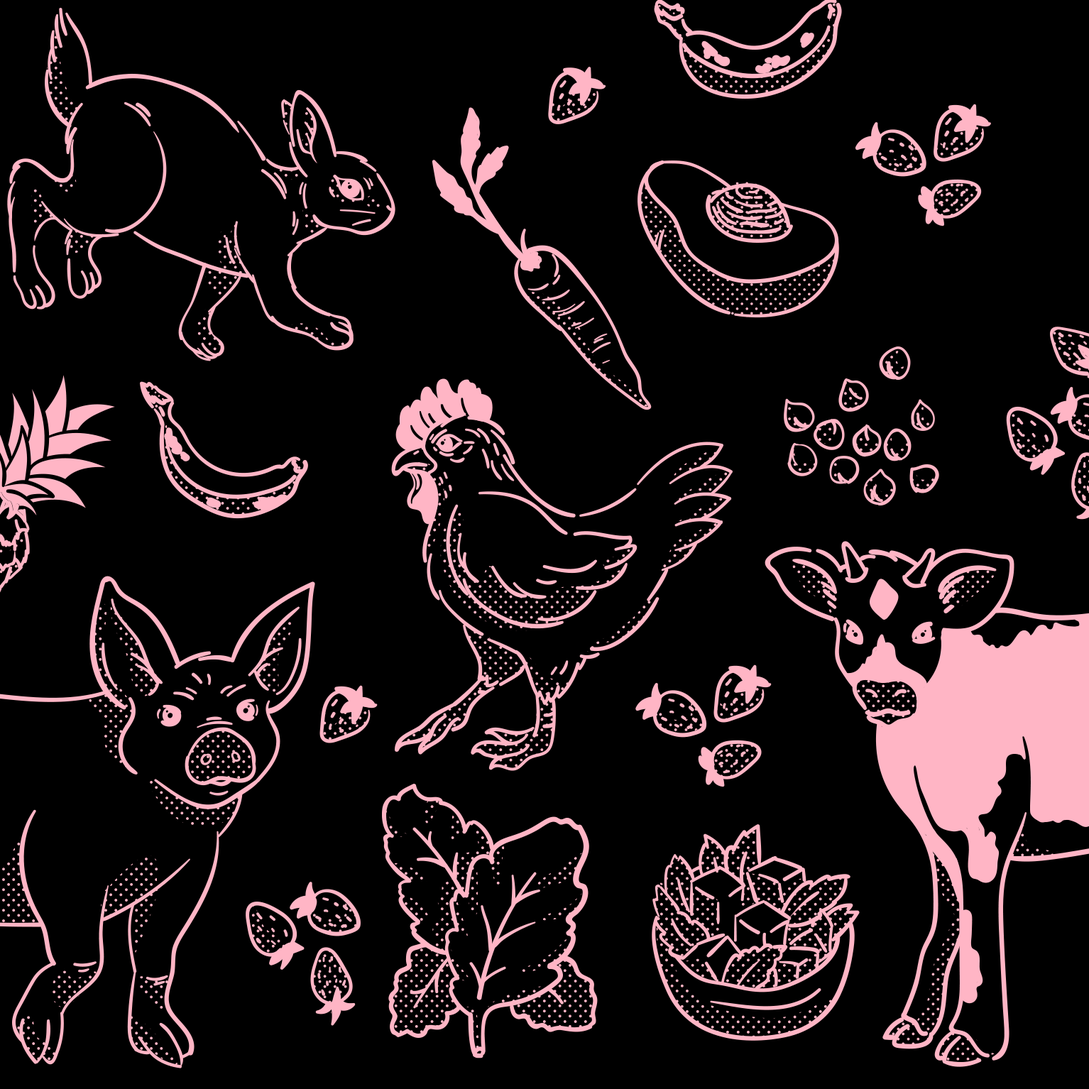
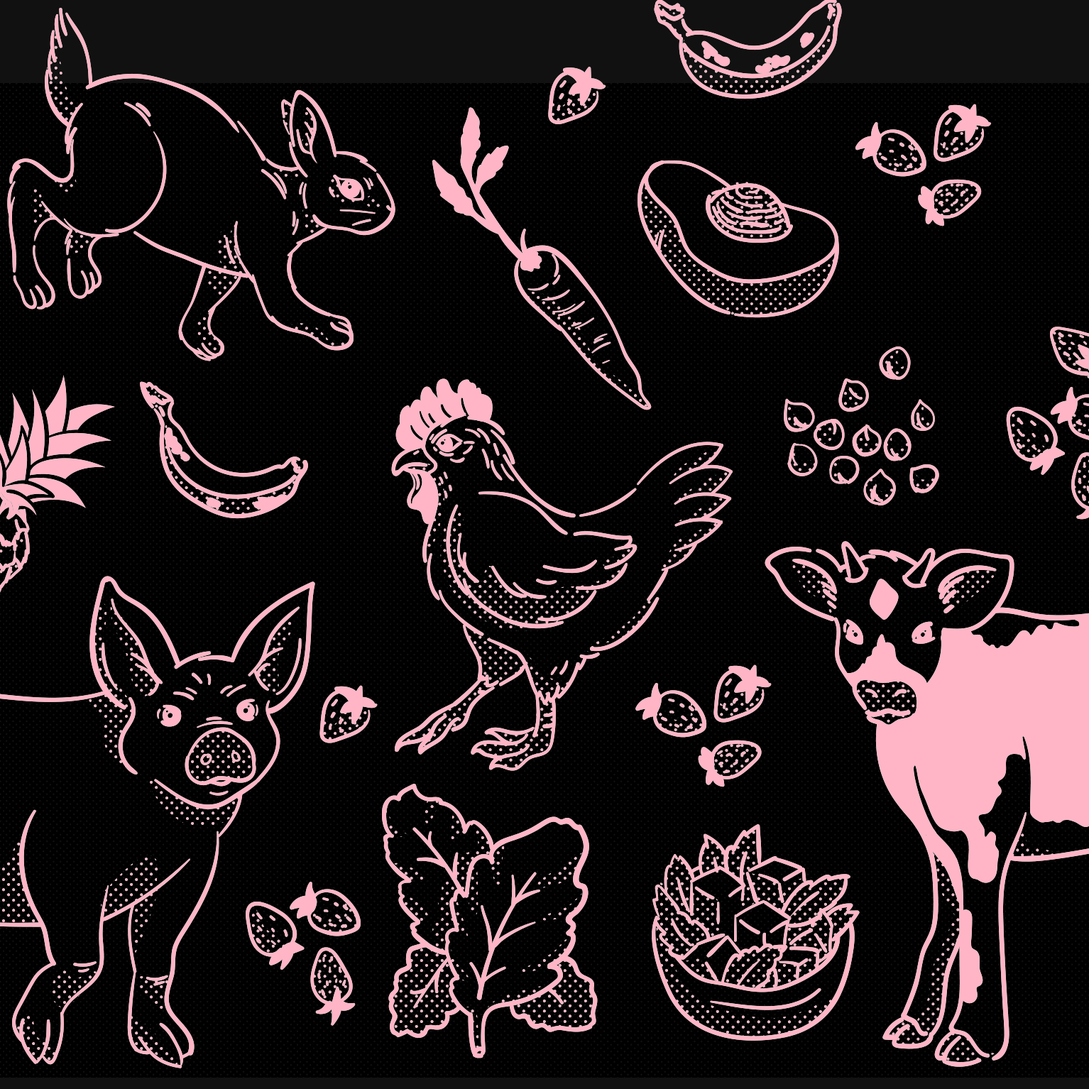
Starting lessons

diff --git a/assets/css/styles.css b/assets/css/styles.css
@@ -1,1 +1,1 @@
-@font-face{font-family:'League Spartan Variable';src:url("../fonts/league-spartan/LeagueSpartan-VF.woff2") format("woff2-variations");font-weight:200 900}@font-face{font-family:'Fanwood';src:url("../fonts/fanwood_regular_macroman/Fanwood-webfont.eot");src:url("../fonts/fanwood_regular_macroman/Fanwood-webfont.eot?#iefix") format("embedded-opentype"),url("../fonts/fanwood_regular_macroman/Fanwood-webfont.woff") format("woff"),url("../fonts/fanwood_regular_macroman/Fanwood-webfont.ttf") format("truetype"),url("../fonts/fanwood_regular_macroman/Fanwood-webfont.svg#fanwoodregular") format("svg");font-weight:normal;font-style:normal}@font-face{font-family:'fanwooditalic';src:url("../fonts/fanwood_italic_macroman/Fanwood-Italic-webfont.eot");src:url("../fonts/fanwood_italic_macroman/Fanwood-Italic-webfont.eot?#iefix") format("embedded-opentype"),url("../fonts/fanwood_italic_macroman/Fanwood-Italic-webfont.woff") format("woff"),url("../fonts/fanwood_italic_macroman/Fanwood-Italic-webfont.ttf") format("truetype"),url("../fonts/fanwood_italic_macroman/Fanwood-Italic-webfont.svg#fanwooditalic") format("svg");font-weight:normal;font-style:italic}body{font-family:"Fanwood",serif;font-weight:400;color:#000;background-color:#FFFEFA;-webkit-font-smoothing:antialiased;-moz-osx-font-smoothing:grayscale}section{margin:0}a{text-decoration:none;color:#000}a:hover{color:#FFB6C6;text-decoration:none}.underline{text-decoration:underline}.no-underline{text-decoration:none}.no-underline:hover{text-decoration:none !important}.dark{color:#000}.bright{color:#FFFEFA}.dark-background{background-color:#000}.bright-background{background-color:#FFFEFA}.brand-background{background-color:#FFB6C6}.gray-1-background{background-color:#f7f7f7}.gray-2-background{background-color:#c6c6c6}.gray-3-background{background-color:#949494}.gray-4-background{background-color:#949494}.gray-5-background{background-color:#313131}figure{margin:0}figure img{width:100%}ul{padding:0;margin:0}ul li{list-style-type:none}.inline{display:inline-block}.inline li{display:inline-block}.break{display:block;content:''}.box-row{display:block;width:100%;height:5.1rem}h1,h2,h3,h4,h5,h6{color:#000;font-family:"League Spartan Variable",sans-serif;font-weight:700}h1,h2,h3,h4,h5,h6{margin:0}h1{font-size:2.488125rem;line-height:2.9375rem}h2{font-size:2.07375rem;line-height:2.4375rem}h3{font-size:1.728125rem;line-height:2.0625rem}h4{font-size:1.44rem;line-height:1.6875rem}h5{font-size:1.2rem;line-height:1.69155rem}p{font-size:1.266rem;line-height:2.0256rem;margin:0;font-weight:400}.p-big{font-size:1.424rem;line-height:2.2784rem;font-weight:400}.p-small{font-size:1.125rem;line-height:1.8rem}.category{text-transform:uppercase;font-size:1rem;letter-spacing:0.2rem}.author-date{font-size:1.125rem;color:#636363}blockquote{font-style:normal !important;color:#000 !important;margin:0}blockquote p{font-size:1.424rem;line-height:2.2784rem;color:#636363}.button{font-family:"League Spartan Variable",sans-serif;color:#000;font-weight:700;display:inline-block;padding:.5rem 2.5rem;margin:0;text-align:center}.button:hover{background-color:#B2FCE4;color:#000;-webkit-transition:0.7s ease;transition:0.7s ease}.button-wide,.button-wide-xs{display:block}.button-big,.link-big{font-size:1.424rem}.link-big span{font-size:2rem}.link-mid{font-size:1.266rem}.link-mid span{font-size:2rem}.button-small,.link-small{font-size:1.125rem}.button-ghost{border:2px solid #000}.button-ghost-bright{border:2px solid #FFFEFA}.button-box{padding:1rem;margin-bottom:2.4rem}.button-box a:last-child{margin-bottom:0}.button-bright:hover{color:#FFFEFA}.button-dark:hover{color:#000}.link{font-family:"League Spartan Variable",sans-serif;font-weight:700}.link:hover{text-decoration:underline;color:#FFB6C6;-webkit-transition:0.7s ease;transition:0.7s ease}.link span{vertical-align:middle;margin-left:.5rem}.link-heading:hover{color:#FFB6C6;transition:0.7s ease;-webkit-transition:0.7s ease}.underline-links li a:after{content:"";display:block;background-color:rgba(0,0,0,0);width:33%;height:.2rem;position:relative;top:.65rem;margin:0 auto}.underline-links li a:hover{color:#000}.underline-links li a:hover:after{background-color:#B2FCE4}.underline-links .active:after{background-color:#000}.underline-links .social a:hover:after{background-color:rgba(0,0,0,0)}.underline-links .social a:after{top:.45rem}.icon-gallery .row{margin:0 0 2.4rem 0}.icon-box{margin:0 0 2.4rem 0}.icon-box img{width:inherit;vertical-align:middle}.video-wrapper{position:relative;padding-bottom:56.25%;padding-top:0;height:0;margin:3rem 0 0 0}.video-wrapper iframe,.video-wrapper .video{position:absolute;top:0;left:0;width:100%;height:100%}.caption{display:block;margin:.75rem 0 2rem 0;color:#000;font-size:1rem;line-height:1.6rem}.caption:hover{text-decoration:underline;color:#000}.main-nav{background-color:#B2FCE4;padding:.5rem 0 .25rem 0}.main-nav a:hover{color:#000}.main-nav li{margin-right:1rem;font-size:1.5rem}.main-nav li:last-child{margin-right:0}.uk-alert{color:inherit;padding:2.4rem 1.4rem;margin:0 0 1.4rem 0;background-color:#f7f7f7}.uk-alert-close{top:1.4rem;right:1.4rem;opacity:1}.uk-alert-close:hover{opacity:1}.alert-content{margin:0 0 .5rem 0}.alert-content p:last-child{margin-bottom:0}.alert-content-no-heading{margin:1.4rem 0 .5rem 0}.uk-modal-full{z-index:9999999999}.uk-modal-full .uk-modal-dialog{height:100%;color:#FFFEFA;background-color:#000}.uk-modal-full .uk-modal-body{padding:.75rem 0 2.4rem 0}.uk-modal-full .wrapper{height:100%}.uk-modal-full .modal-nav-row{height:100%}.uk-modal-full ul{padding-left:0}.uk-modal-full .social{margin-top:1rem;font-size:1.5rem}.uk-modal-full .social li{margin-right:1rem}.uk-modal-full .social li:last-child{margin-right:0}.uk-modal-full li{font-family:"League Spartan Variable",sans-serif;font-weight:700;font-size:1.44rem;margin-bottom:1rem}.uk-modal-full .logo{font-size:8rem;margin-bottom:-1rem}.uk-modal-full a{color:#FFFEFA}.uk-modal-full a:hover{color:#B2FCE4}.uk-modal-full .uk-modal-close-default{position:inherit;padding:0}.uk-modal-full .uk-modal-close-default span{font-size:1.5rem}.uk-modal-full .uk-modal-close-default svg{display:none}.modal-open{display:block;opacity:1}.why-big-text{margin:0 0 2.5rem 0;padding:0 0 2rem 0;border-bottom:1px dotted #c6c6c6}.index-header{margin:0 auto 3.5rem auto}.index-header .hero-image{background-image:url(../images/hero-image-mobile-1-1.png);background-repeat:no-repeat;background-size:cover;height:24rem;background-color:#000;margin-bottom:1rem}.index-header h1{margin-bottom:1rem}.index-header .p-big{font-size:1.424rem;line-height:2.2784rem}.index-header .text-box{margin:0 0 2rem 0}.content .row{padding:0 0 2rem 0;margin:0 0 2.5rem 0;border-bottom:1px dotted #c6c6c6}.content figure{margin:0 0 1.5rem 0}.content h3{margin:0 0 1rem 0}.content h4,.content h5{margin:0 0 1rem 0}.content .text-box{margin:0 0 1.5rem 0}.content .preview-lessons{padding:0 0 2.5rem 0}.content .preview-events-and-articles{border-bottom:0;margin-bottom:0}.content .preview-event{padding:0 0 2rem 0;border-bottom:1px dotted #c6c6c6}.content .preview-event-article{margin:0 0 2rem 0}.content .preview-event-article h4{font-size:1.728125rem;line-height:2.0625rem}.content .preview-event-article figure{margin:0 0 1rem 0}.content .preview-event-article .text-box{margin:0 0 .75rem 0}.content-post{padding:0;margin:2.5rem 0 4.5rem 0}.content-post .row{padding:0 !important;margin:0 !important;border-bottom:none}.content-post .article-container{margin:2rem 0 1rem 0 !important}.content-post .article-container .button{margin:.5rem 0 0 0}.content-post .article-container p{margin:0 0 2rem 0}.content-post .article-container img{margin:2rem 0 0 0}.prev-next .long-word{display:none}.prev-next .col-xs-6{padding:0}.prev-next a .margin-right{margin-left:0;margin-right:.5rem}.prev-next a:hover{text-decoration:none}footer{color:#FFFEFA;background-color:#000;padding:2rem 0}footer .logo{font-size:7.5rem;color:#FFFEFA}footer .logo:hover{color:#B2FCE4;transition:0.7s ease;-webkit-transition:0.7s ease}footer nav{margin:0 0 2rem 0}footer nav li{margin:0 0 .5rem 0}footer nav a{font-family:"League Spartan Variable",sans-serif;font-weight:700;font-size:1.266rem;color:#FFFEFA}footer nav a:hover{color:#B2FCE4;text-decoration:underline;transition:0.7s ease;-webkit-transition:0.7s ease}footer p{margin:0 0 1rem 0}footer .link{color:#FFFEFA}footer .link:hover{color:#B2FCE4;transition:0.7s ease;-webkit-transition:0.7s ease}footer .social li{margin-right:1rem}footer .social li:last-child{margin-right:0}footer .social li a{font-size:1.25rem}footer .social li a:hover{text-decoration:none}#Smallchat .Laucher-icon{box-shadow:0 0 0 0 rgba(0,0,0,0) !important}
+@font-face{font-family:'League Spartan Variable';src:url("../fonts/league-spartan/LeagueSpartan-VF.woff2") format("woff2-variations");font-weight:200 900}@font-face{font-family:'Fanwood';src:url("../fonts/fanwood_regular_macroman/Fanwood-webfont.eot");src:url("../fonts/fanwood_regular_macroman/Fanwood-webfont.eot?#iefix") format("embedded-opentype"),url("../fonts/fanwood_regular_macroman/Fanwood-webfont.woff") format("woff"),url("../fonts/fanwood_regular_macroman/Fanwood-webfont.ttf") format("truetype"),url("../fonts/fanwood_regular_macroman/Fanwood-webfont.svg#fanwoodregular") format("svg");font-weight:normal;font-style:normal}@font-face{font-family:'fanwooditalic';src:url("../fonts/fanwood_italic_macroman/Fanwood-Italic-webfont.eot");src:url("../fonts/fanwood_italic_macroman/Fanwood-Italic-webfont.eot?#iefix") format("embedded-opentype"),url("../fonts/fanwood_italic_macroman/Fanwood-Italic-webfont.woff") format("woff"),url("../fonts/fanwood_italic_macroman/Fanwood-Italic-webfont.ttf") format("truetype"),url("../fonts/fanwood_italic_macroman/Fanwood-Italic-webfont.svg#fanwooditalic") format("svg");font-weight:normal;font-style:italic}body{font-family:"Fanwood",serif;font-weight:400;color:#111;background-color:#FFFEFA;-webkit-font-smoothing:antialiased;-moz-osx-font-smoothing:grayscale}section{margin:0}a{text-decoration:none;color:#111}a:hover{color:#FFB6C6;text-decoration:none}.underline{text-decoration:underline}.no-underline{text-decoration:none}.no-underline:hover{text-decoration:none !important}.dark{color:#111}.bright{color:#FFFEFA}.dark-background{background-color:#111}.bright-background{background-color:#FFFEFA}.brand-background{background-color:#FFB6C6}.gray-1-background{background-color:#f7f7f7}.gray-2-background{background-color:#c6c6c6}.gray-3-background{background-color:#949494}.gray-4-background{background-color:#949494}.gray-5-background{background-color:#313131}figure{margin:0}figure img{width:100%}ul{padding:0;margin:0}ul li{list-style-type:none}.inline{display:inline-block}.inline li{display:inline-block}.break{display:block;content:''}.box-row{display:block;width:100%;height:5.1rem}h1,h2,h3,h4,h5,h6{color:#111;font-family:"League Spartan Variable",sans-serif;font-weight:700}h1,h2,h3,h4,h5,h6{margin:0}h1{font-size:2.488125rem;line-height:2.9375rem}h2{font-size:2.07375rem;line-height:2.4375rem}h3{font-size:1.728125rem;line-height:2.0625rem}h4{font-size:1.44rem;line-height:1.6875rem}h5{font-size:1.2rem;line-height:1.69155rem}p{font-size:1.266rem;line-height:2.0256rem;margin:0;font-weight:400}.p-big{font-size:1.424rem;line-height:2.2784rem;font-weight:400}.p-small{font-size:1.125rem;line-height:1.8rem}.category{text-transform:uppercase;font-size:1rem;letter-spacing:0.2rem}.author-date{font-size:1.125rem;color:#636363}blockquote{font-style:normal !important;color:#111 !important;margin:0}blockquote p{font-size:1.424rem;line-height:2.2784rem;color:#636363}.button{font-family:"League Spartan Variable",sans-serif;color:#111;font-weight:700;display:inline-block;padding:.5rem 2.5rem;margin:0;text-align:center}.button:hover{background-color:#B2FCE4;color:#111;-webkit-transition:0.7s ease;transition:0.7s ease}.button-wide,.button-wide-xs{display:block}.button-big,.link-big{font-size:1.424rem}.link-big span{font-size:2rem}.link-mid{font-size:1.266rem}.link-mid span{font-size:2rem}.button-small,.link-small{font-size:1.125rem}.button-ghost{border:2px solid #111}.button-ghost-bright{border:2px solid #FFFEFA}.button-box{padding:1rem;margin-bottom:2.4rem}.button-box a:last-child{margin-bottom:0}.button-bright:hover{color:#FFFEFA}.button-dark:hover{color:#111}.link{font-family:"League Spartan Variable",sans-serif;font-weight:700}.link:hover{text-decoration:underline;color:#FFB6C6;-webkit-transition:0.7s ease;transition:0.7s ease}.link span{vertical-align:middle;margin-left:.5rem}.link-heading:hover{color:#FFB6C6;transition:0.7s ease;-webkit-transition:0.7s ease}.underline-links li a:after{content:"";display:block;background-color:rgba(0,0,0,0);width:33%;height:.2rem;position:relative;top:.65rem;margin:0 auto}.underline-links li a:hover{color:#111}.underline-links li a:hover:after{background-color:#B2FCE4}.underline-links .active:after{background-color:#111}.underline-links .social a:hover:after{background-color:rgba(0,0,0,0)}.underline-links .social a:after{top:.45rem}.icon-gallery .row{margin:0 0 2.4rem 0}.icon-box{margin:0 0 2.4rem 0}.icon-box img{width:inherit;vertical-align:middle}.video-wrapper{position:relative;padding-bottom:56.25%;padding-top:0;height:0;margin:3rem 0 0 0}.video-wrapper iframe,.video-wrapper .video{position:absolute;top:0;left:0;width:100%;height:100%}.caption{display:block;margin:.75rem 0 2rem 0;color:#111;font-size:1rem;line-height:1.6rem}.caption:hover{text-decoration:underline;color:#111}.main-nav{background-color:#B2FCE4;padding:.5rem 0 .25rem 0}.main-nav a:hover{color:#111}.main-nav li{margin-right:1rem;font-size:1.5rem}.main-nav li:last-child{margin-right:0}.uk-alert{color:inherit;padding:2.4rem 1.4rem;margin:0 0 1.4rem 0;background-color:#f7f7f7}.uk-alert-close{top:1.4rem;right:1.4rem;opacity:1}.uk-alert-close:hover{opacity:1}.alert-content{margin:0 0 .5rem 0}.alert-content p:last-child{margin-bottom:0}.alert-content-no-heading{margin:1.4rem 0 .5rem 0}.uk-modal-full{z-index:9999999999}.uk-modal-full .uk-modal-dialog{height:100%;color:#FFFEFA;background-color:#111}.uk-modal-full .uk-modal-body{padding:.75rem 0 2.4rem 0}.uk-modal-full .wrapper{height:100%}.uk-modal-full .modal-nav-row{height:100%}.uk-modal-full ul{padding-left:0}.uk-modal-full .social{margin-top:1rem;font-size:1.5rem}.uk-modal-full .social li{margin-right:1rem}.uk-modal-full .social li:last-child{margin-right:0}.uk-modal-full li{font-family:"League Spartan Variable",sans-serif;font-weight:700;font-size:1.44rem;margin-bottom:1rem}.uk-modal-full .logo{font-size:8rem;margin-bottom:-1rem}.uk-modal-full a{color:#FFFEFA}.uk-modal-full a:hover{color:#B2FCE4}.uk-modal-full .uk-modal-close-default{position:inherit;padding:0}.uk-modal-full .uk-modal-close-default span{font-size:1.5rem}.uk-modal-full .uk-modal-close-default svg{display:none}.modal-open{display:block;opacity:1}.why-big-text{margin:0 0 2.5rem 0;padding:0 0 2rem 0;border-bottom:1px dotted #c6c6c6}.index-header{margin:0 auto 3.5rem auto}.index-header .hero-image{background-image:url(../images/hero-image-mobile-1-1.png);background-repeat:no-repeat;background-size:cover;height:24rem;background-color:#111;margin-bottom:1rem}.index-header h1{margin-bottom:1rem}.index-header .p-big{font-size:1.424rem;line-height:2.2784rem}.index-header .text-box{margin:0 0 2rem 0}.content .row{padding:0 0 2rem 0;margin:0 0 2.5rem 0;border-bottom:1px dotted #c6c6c6}.content figure{margin:0 0 1.5rem 0}.content h3{margin:0 0 1rem 0}.content h4,.content h5{margin:0 0 1rem 0}.content .text-box{margin:0 0 1.5rem 0}.content .preview-lessons{padding:0 0 2.5rem 0}.content .preview-events-and-articles{border-bottom:0;margin-bottom:0}.content .preview-event{padding:0 0 2rem 0;border-bottom:1px dotted #c6c6c6}.content .preview-event-article{margin:0 0 2rem 0}.content .preview-event-article h4{font-size:1.728125rem;line-height:2.0625rem}.content .preview-event-article figure{margin:0 0 1rem 0}.content .preview-event-article .text-box{margin:0 0 .75rem 0}.content-post,.content-lessons{padding:0;margin:2.5rem 0 4.5rem 0}.content-post .row,.content-lessons .row{padding:0 !important;margin:0 !important;border-bottom:none}.content-post .article-container,.content-lessons .article-container{margin:2rem 0 1rem 0 !important}.content-post .article-container .button,.content-lessons .article-container .button{margin:.5rem 0 0 0}.content-post .article-container p,.content-lessons .article-container p{margin:0 0 2rem 0}.content-post .article-container img,.content-lessons .article-container img{margin:2rem 0 0 0}.prev-next .long-word{display:none}.prev-next .col-xs-6{padding:0}.prev-next a .margin-right{margin-left:0;margin-right:.5rem}.prev-next a:hover{text-decoration:none}footer{color:#FFFEFA;background-color:#111;padding:2rem 0}footer .logo{font-size:7.5rem;color:#FFFEFA}footer .logo:hover{color:#B2FCE4;transition:0.7s ease;-webkit-transition:0.7s ease}footer nav{margin:0 0 2rem 0}footer nav li{margin:0 0 .5rem 0}footer nav a{font-family:"League Spartan Variable",sans-serif;font-weight:700;font-size:1.266rem;color:#FFFEFA}footer nav a:hover{color:#B2FCE4;text-decoration:underline;transition:0.7s ease;-webkit-transition:0.7s ease}footer p{margin:0 0 1rem 0}footer .link{color:#FFFEFA}footer .link:hover{color:#B2FCE4;transition:0.7s ease;-webkit-transition:0.7s ease}footer .social li{margin-right:1rem}footer .social li:last-child{margin-right:0}footer .social li a{font-size:1.25rem}footer .social li a:hover{text-decoration:none}#Smallchat .Laucher-icon{box-shadow:0 0 0 0 rgba(0,0,0,0) !important}

diff --git a/assets/css/media-queries.css b/assets/css/media-queries.css
@@ -1,1 +1,1 @@
-@media only screen and (max-width: 48em){.visible-sm{display:block}.hidden-xs{display:none}}@media only screen and (min-width: 48em){.visible-sm{display:block}.hidden-sm{display:none}h1{font-size:2.98625rem;line-height:3.5625rem}h2{font-size:2.488125rem;line-height:2.9375rem}h3{font-size:2.07375rem;line-height:2.4375rem}h4{font-size:1.728125rem;line-height:2.0625rem}h5{font-size:1.44rem;line-height:1.6875rem}.button-big,.link-big{font-size:1.424rem}.button .visible-sm{display:inline-block}.prev-next .long-word{font-size:inherit;display:inline;margin:0}.main-nav{padding:1rem 0 .5rem 0}.main-nav li a{font-size:1.424rem}.uk-modal-full .uk-modal-body{padding:1rem 0 2.4rem 0}.button-wide-xs{display:inline-block}.index-header,.internal-header{padding:0 0 1rem 0;background-color:#000;background-image:url(../images/hero-image-home-tablet.png);background-position:right;background-repeat:no-repeat;background-size:50%}.index-header h1,.index-header p,.internal-header h1,.internal-header p{color:#FFFEFA}.index-header .content-box,.internal-header .content-box{margin:6rem 0 2.5rem 0;padding:0 2rem 0 0}.index-header .text-box,.internal-header .text-box{margin:0 0 2.5rem 0}.down{color:#FFFEFA;font-size:2rem;-webkit-transition:0.4s ease;transition:0.4s ease}.down:hover{color:#B2FCE4}.internal-header{background-color:rgba(0,0,0,0);background-image:none;color:#000}.internal-header .main-nav .logo{color:#000}.internal-header .main-nav .logo:hover{color:#FFB6C6}.internal-header .main-nav ul{background-color:rgba(0,0,0,0)}.internal-header .main-nav ul .active:after{background-color:#000}.internal-header .main-nav ul a,.internal-header .main-nav ul .active{color:#000}.internal-header .main-nav ul a:hover,.internal-header .main-nav ul .active:hover{color:#000}.internal-header .main-nav ul a:hover:after,.internal-header .main-nav ul .active:hover:after{background-color:#FFB6C6}.internal-header .main-nav .social a:hover{color:#FFB6C6}.internal-header .main-nav .social a:hover:after{background-color:rgba(0,0,0,0)}.content .row{padding:0 0 4rem 0;margin:0 0 4.5rem 0}.content .text-box{margin:0 0 2rem 0}.content .preview-events-and-articles{margin:0}.content .preview-event-article h4{font-size:1.728125rem;line-height:2.0625rem}.content .preview-event{padding:0;border-bottom:none}.content-post{margin:2rem 0 6.5rem 0}.shrink-nav .social a:hover:after{background-color:rgba(0,0,0,0) !important}.shrink-nav a:hover:after,.shrink-nav .active:hover:after{background-color:#000 !important}}@media only screen and (min-width: 62em){.visible-lg{display:block}.hidden-lg{display:none}.main-nav{background-color:rgba(0,0,0,0);box-shadow:none;-webkit-box-shadow:none;-moz-box-shadow:none}.main-nav .nav-right{padding:0 1rem}.main-nav .logo{font-size:8.5rem;color:#FFFEFA}.main-nav .logo:hover{color:#B2FCE4}.main-nav ul{background-color:#000}.main-nav ul li{margin-right:1.2rem}.main-nav ul li a{font-family:"League Spartan Variable",sans-serif;font-weight:700;font-size:1.266rem;color:#FFFEFA}.main-nav ul li a:hover{color:#B2FCE4}.main-nav .social{display:inline-block}.main-nav .social li{margin-right:1rem}.main-nav .social li:last-child{margin-right:0}.main-nav .social li a{font-size:1.266rem}.shrink-nav{background-color:#B2FCE4}.shrink-nav ul{margin-top:-.5rem;background-color:rgba(0,0,0,0)}.shrink-nav li{margin-right:1rem !important}.shrink-nav li .active:after{background-color:#000 !important}.shrink-nav li a,.shrink-nav li .active{color:#000 !important;font-size:1.125rem !important}.shrink-nav li a:hover,.shrink-nav li .active:hover{color:#000 !important}.shrink-nav li a:hover:after,.shrink-nav li .active:hover:after{background-color:#000}.shrink-nav .social{position:relative;top:.2rem}.shrink-nav .social li{margin-right:.75rem !important}.shrink-nav .social a:hover:after{background-color:rgba(0,0,0,0)}.shrink-nav .logo{font-size:1.5rem;color:#000}.shrink-nav .logo:hover{color:#000 !important}.shrink-nav .logo span:before{content:"\e94b"}.index-header{background-image:url(../images/hero-image-home-variant.png)}.internal-header{background-image:none}.why-big-text{margin:0 0 4rem 0 !important;padding:0 0 4rem 0 !important}.content-post{margin:-1.5rem 0 6.5rem 0}footer nav{margin:0 0 .5rem 0}footer nav li{margin-right:1rem;display:inline-block}footer nav li:last-child{margin-right:0}.text-box{margin:0 0 .5rem 0}.text-box p{display:inline-block}}@media only screen and (min-width: 75em){.index-header{margin:0 auto 6rem auto;padding:0;height:100vh}.index-header .content-box{margin:2rem 0 0 0;padding:0 2rem 0 0}.index-header .text-box{margin:0 0 2.5rem 0}.content-box-wrapper{height:100vh}.sixty-six-height{height:66vh}.down-box{position:absolute !important;bottom:1rem;left:50%;margin-left:-1.5rem;text-align:center;z-index:1}.internal-header{height:inherit}}
+@media only screen and (max-width: 48em){.visible-sm{display:block}.hidden-xs{display:none}}@media only screen and (min-width: 48em){.visible-sm{display:block}.hidden-sm{display:none}h1{font-size:2.98625rem;line-height:3.5625rem}h2{font-size:2.488125rem;line-height:2.9375rem}h3{font-size:2.07375rem;line-height:2.4375rem}h4{font-size:1.728125rem;line-height:2.0625rem}h5{font-size:1.44rem;line-height:1.6875rem}.button-big,.link-big{font-size:1.424rem}.button .visible-sm{display:inline-block}.prev-next .long-word{font-size:inherit;display:inline;margin:0}.main-nav{padding:1rem 0 .5rem 0}.main-nav li a{font-size:1.424rem}.uk-modal-full .uk-modal-body{padding:1rem 0 2.4rem 0}.button-wide-xs{display:inline-block}.index-header,.internal-header{padding:0 0 1rem 0;background-color:#111;background-image:url(../images/hero-image-home-tablet.png);background-position:right;background-repeat:no-repeat;background-size:50%}.index-header h1,.index-header p,.internal-header h1,.internal-header p{color:#FFFEFA}.index-header .content-box,.internal-header .content-box{margin:6rem 0 2.5rem 0;padding:0 2rem 0 0}.index-header .text-box,.internal-header .text-box{margin:0 0 2.5rem 0}.down{color:#FFFEFA;font-size:2rem;-webkit-transition:0.4s ease;transition:0.4s ease}.down:hover{color:#B2FCE4}.internal-header{background-color:rgba(0,0,0,0);background-image:none;color:#111}.internal-header .main-nav .logo{color:#111}.internal-header .main-nav .logo:hover{color:#FFB6C6}.internal-header .main-nav ul{background-color:rgba(0,0,0,0)}.internal-header .main-nav ul .active:after{background-color:#111}.internal-header .main-nav ul a,.internal-header .main-nav ul .active{color:#111}.internal-header .main-nav ul a:hover,.internal-header .main-nav ul .active:hover{color:#111}.internal-header .main-nav ul a:hover:after,.internal-header .main-nav ul .active:hover:after{background-color:#FFB6C6}.internal-header .main-nav .social a:hover{color:#FFB6C6}.internal-header .main-nav .social a:hover:after{background-color:rgba(0,0,0,0)}.content .row{padding:0 0 4rem 0;margin:0 0 4.5rem 0}.content .text-box{margin:0 0 2rem 0}.content .preview-events-and-articles{margin:0}.content .preview-event-article h4{font-size:1.728125rem;line-height:2.0625rem}.content .preview-event{padding:0;border-bottom:none}.content-post .content-lessons{margin:2rem 0 6.5rem 0}.shrink-nav .social a:hover:after{background-color:rgba(0,0,0,0) !important}.shrink-nav a:hover:after,.shrink-nav .active:hover:after{background-color:#111 !important}}@media only screen and (min-width: 62em){.visible-lg{display:block}.hidden-lg{display:none}.main-nav{background-color:rgba(0,0,0,0);box-shadow:none;-webkit-box-shadow:none;-moz-box-shadow:none}.main-nav .nav-right{padding:0 1rem}.main-nav .logo{font-size:8.5rem;color:#FFFEFA}.main-nav .logo:hover{color:#B2FCE4}.main-nav ul li{margin-right:1.2rem}.main-nav ul li a{font-family:"League Spartan Variable",sans-serif;font-weight:700;font-size:1.266rem;color:#FFFEFA}.main-nav ul li a:hover{color:#B2FCE4}.main-nav .social{display:inline-block}.main-nav .social li{margin-right:1rem}.main-nav .social li:last-child{margin-right:0}.main-nav .social li a{font-size:1.266rem}.shrink-nav{background-color:#B2FCE4}.shrink-nav ul{margin-top:-.5rem;background-color:rgba(0,0,0,0)}.shrink-nav li{margin-right:1rem !important}.shrink-nav li .active:after{background-color:#111 !important}.shrink-nav li a,.shrink-nav li .active{color:#111 !important;font-size:1.125rem !important}.shrink-nav li a:hover,.shrink-nav li .active:hover{color:#111 !important}.shrink-nav li a:hover:after,.shrink-nav li .active:hover:after{background-color:#111}.shrink-nav .social{position:relative;top:.2rem}.shrink-nav .social li{margin-right:.75rem !important}.shrink-nav .social a:hover:after{background-color:rgba(0,0,0,0)}.shrink-nav .logo{font-size:1.5rem;color:#111}.shrink-nav .logo:hover{color:#111 !important}.shrink-nav .logo span:before{content:"\e94b"}.index-header{background-image:url(../images/hero-image-home-variant.png)}.internal-header{background-image:none}.why-big-text{margin:0 0 4rem 0 !important;padding:0 0 4rem 0 !important}.content-post,.content-lessons{margin:-1.5rem 0 6.5rem 0}footer nav{margin:0 0 .5rem 0}footer nav li{margin-right:1rem;display:inline-block}footer nav li:last-child{margin-right:0}.text-box{margin:0 0 .5rem 0}.text-box p{display:inline-block}}@media only screen and (min-width: 75em){.index-header{margin:0 auto 6rem auto;padding:0;height:100vh}.index-header .content-box{margin:2rem 0 0 0;padding:0 2rem 0 0}.index-header .text-box{margin:0 0 2.5rem 0}.content-box-wrapper{height:100vh}.sixty-six-height{height:66vh}.down-box{position:absolute !important;bottom:1rem;left:50%;margin-left:-1.5rem;text-align:center;z-index:1}.internal-header{height:inherit}}

diff --git a/_includes/lessons-header.html b/_includes/lessons-header.html
@@ -1,0 +1,32 @@
+<!-- content -->
+<div class="content content-lessons">
+  <!-- wrapper -->
+  <div class="wrapper container-fluid">
+    <!-- row -->
+    <div class="row">
+      <!-- col -->
+      <div class="col-xs-12">
+        <h1>{{ page.title }}</h1>
+      </div>
+      <!-- col end -->
+    </div>
+    <!-- row end -->
+    <!-- row -->
+    <div class="row article-container">
+      <!-- col -->
+      <div class="col-xs-12 col-lg-6">
+        <p class="p-big">{{ page.highlight-text }}</p>
+        <p>{{ page.text-col-one }}</p>
+      </div>
+      <!-- col -->
+      <!-- col -->
+      <div class="col-xs-12 col-lg-6">
+        <p>{{ page.text-col-two }}</p>
+      </div>
+      <!-- col -->
+    </div>
+    <!-- row -->
+  </div>
+  <!-- wrapper -->
+</div>
+<!-- content end -->

diff --git a/assets/scss/media-queries.scss b/assets/scss/media-queries.scss
@@ -11,7 +11,7 @@
 // Color variables
 $brand: #FFB6C6;
 $brand-2: #B2FCE4;
-$dark: #000;
+$dark: #111;
 $bright: #FFFEFA;
 
 $gray-1: #f7f7f7;
@@ -222,7 +222,7 @@ $micro-line-height: 1.6rem;
       border-bottom: none;
     }
   }
-  .content-post{
+  .content-post .content-lessons{
     margin: 2rem 0 6.5rem 0;
   }
   &.shrink-nav{
@@ -271,7 +271,8 @@ $micro-line-height: 1.6rem;
       }
     }
     & ul{
-      background-color: $dark;
+      // background-color: $dark;
+      // padding: .5rem 1rem;
       & li{
         margin-right: 1.2rem;
         & a{
@@ -367,7 +368,7 @@ $micro-line-height: 1.6rem;
     padding: 0 0 4rem 0 !important;
   }
   // Posts
-  .content-post{
+  .content-post, .content-lessons{
     margin: -1.5rem 0 6.5rem 0;
   }
   // Footer

diff --git a/assets/js/nav-shrink.js b/assets/js/nav-shrink.js
@@ -1,15 +1,15 @@
 $(window).scroll(function() {
   if ($(document).scrollTop() > 10) {
-    $('.main-nav').attr("uk-sticky", "bottom: #offset");
+    $('#desk-nav').attr("uk-sticky", "bottom: #offset");
   } else {
-    $('.main-nav').removeAttr("uk-sticky", "bottom: #offset");
+    $('#desk-nav').removeAttr("uk-sticky", "bottom: #offset");
   }
 });
 
 $(window).scroll(function() {
   if ($(document).scrollTop() > 48) {
-    $('.main-nav').addClass('shrink-nav uk-animation-slide-top');
+    $('#desk-nav').addClass('shrink-nav uk-animation-slide-top');
   } else {
-    $('.main-nav').removeClass('shrink-nav uk-animation-slide-top');
+    $('#desk-nav').removeClass('shrink-nav uk-animation-slide-top');
   }
 });

diff --git a/_includes/header-home.html b/_includes/header-home.html
@@ -1,5 +1,5 @@
 <!-- header -->
-<header class="index-header">
+<header class="index-header" uk-parallax="bgy: -86">
   <!-- Main nav desk -->
   <nav class="hidden-xs hidden-sm visible-lg main-nav" id="desk-nav">
     <!-- wrapper -->
@@ -11,7 +11,7 @@
           <nav>
             <ul class="inline underline-links">
               <li><a href="/porque-veganismo/" {% if page.url == "/porque-veganismo/" %}class="active"{% endif %}>¿Por qué veganismo?</a></li>
-              <li><a href="#">Lecciones</a></li>
+              <li><a href="/lecciones/">Lecciones</a></li>
             </ul>
           </nav>
         </div>

diff --git a/_includes/modal-nav.html b/_includes/modal-nav.html
@@ -19,7 +19,7 @@
             <ul>
               <li class="logo"><a href="/"><span class="icon icon-taller-veganista-logo"></span></a></li>
               <li><a href="/porque-veganismo/">¿Porqué veganismo?</a></li>
-              <li><a href="#">Lecciones</a></li>
+              <li><a href="/lecciones/">Lecciones</a></li>
               <li><a href="#">Parches</a></li>
               <li><a href="#">Blog</a></li>
               <li><a href="#">Contacto</a></li>

diff --git a/_includes/footer.html b/_includes/footer.html
@@ -19,7 +19,7 @@
           <ul>
             <li><a href="/">Inicio</a></li>
             <li><a href="/porque-veganismo/">¿Porqué veganismo?</a></li>
-            <li><a href="#">Lecciones</a></li>
+            <li><a href="/lecciones/">Lecciones</a></li>
             <li><a href="#">¿Qué es Taller Veganista?</a></li>
             <li><a href="#">Parches</a></li>
             <li><a href="#">Blog</a></li>

diff --git a/_includes/header.html b/_includes/header.html
@@ -11,7 +11,7 @@
           <nav>
             <ul class="inline underline-links">
               <li><a href="/porque-veganismo/" {% if page.url == "/porque-veganismo/" %}class="active"{% endif %}>¿Por qué veganismo?</a></li>
-              <li><a href="#">Lecciones</a></li>
+              <li><a href="/lecciones/">Lecciones</a></li>
             </ul>
           </nav>
         </div>

diff --git a/assets/scss/styles.scss b/assets/scss/styles.scss
@@ -11,7 +11,7 @@
 // Color variables
 $brand: #FFB6C6;
 $brand-2: #B2FCE4;
-$dark: #000;
+$dark: #111;
 $bright: #FFFEFA;
 
 $gray-1: #f7f7f7;
@@ -670,7 +670,7 @@ blockquote{
 
 // Posts
 
-.content-post{
+.content-post, .content-lessons{
   padding: 0;
   margin: 2.5rem 0 4.5rem 0;
   & .row{

diff --git a/_layouts/lessons.html b/_layouts/lessons.html
@@ -1,0 +1,7 @@
+---
+layout: basic-structure
+---
+
+{% include header.html %}
+
+{% include lessons-header.html %}

diff --git a/porque.md b/porque.md
@@ -19,7 +19,7 @@ No todxs lxs veganxs aceptan esta definición al pie de la letra. Para mi, forma
 
 Mientras que actuar con base en creencias y costumbres es opcional, actuar con base en argumentos éticos sólidos es simplemente lo correcto y lo mínimo que deberíamos hacer. Política porque no estamos buscando excluirnos individualmente de participar en un sistema de explotación injusto y extremadamente violento sino que ese sistema se acabe.
 
-Otros cuestionan la parte de posible o practicable porque lo ven como una oportunidad para que una persona justifique su participación en la explotación de los animales ante cualquier dificultad. No todos pensamos igual y nuestras diferencias generan discusiones complejas e interesantes. Tomamos la decisión de ser veganxs porque estamos dispuestos a cuestionar el sistema de creencias convencional, y tenemos la disciplina para actuar en consecuencia, hasta donde podemos.
+Otros cuestionan la parte de posible o practicable porque lo ven como una oportunidad para que una persona justifique su participación directa en la explotación de los animales ante cualquier dificultad. No todos pensamos igual y nuestras diferencias generan discusiones complejas e interesantes. Tomamos la decisión de ser veganxs porque estamos dispuestos a cuestionar el sistema de creencias convencional, y tenemos la disciplina para actuar en consecuencia, hasta donde podemos.
 
 En la [lección uno](#){:target='_blank' class="link"} entenderás mejor que es veganismo, explorarás los argumentos que lo sustentan y conocerás algo de su historia.
 
